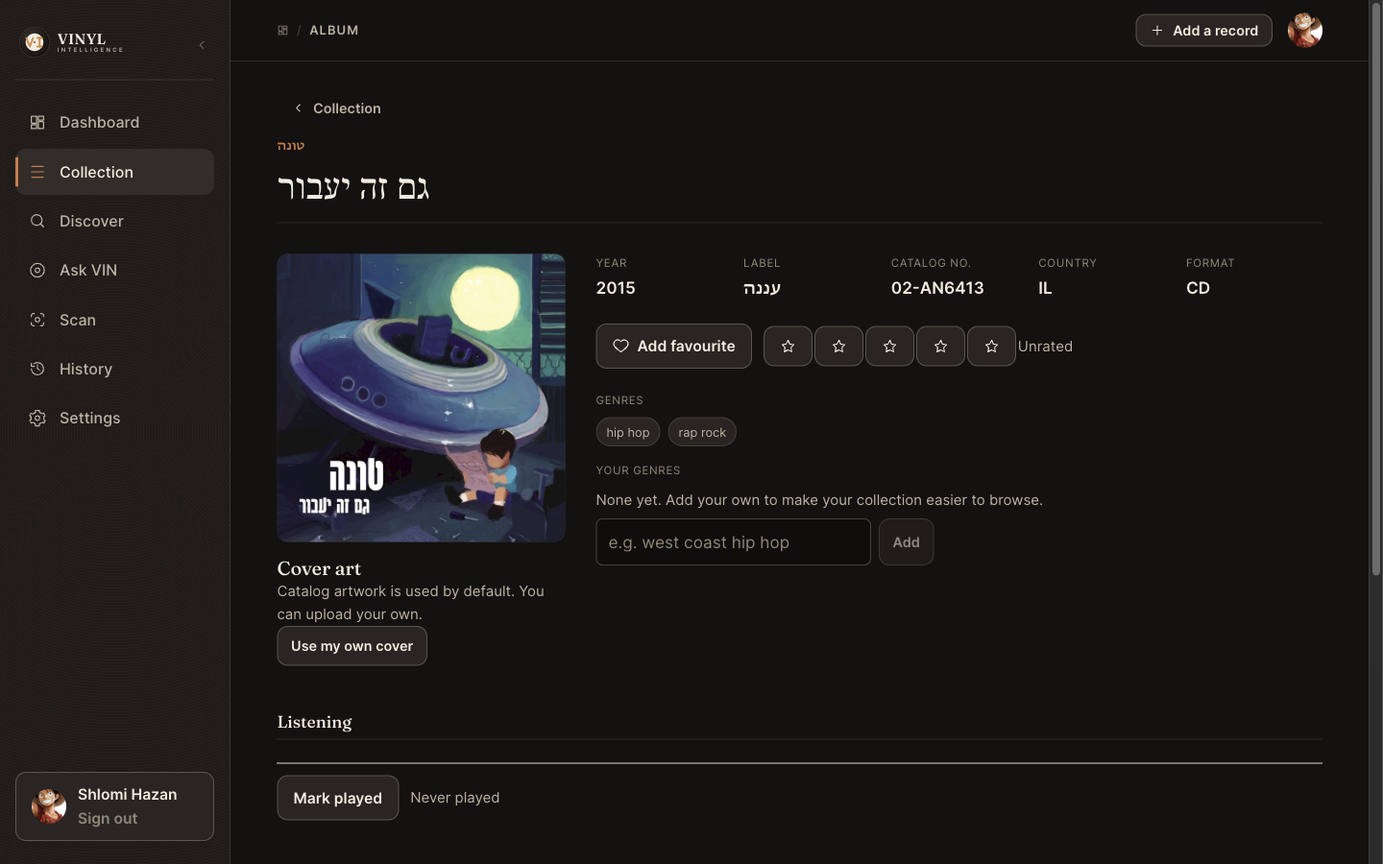
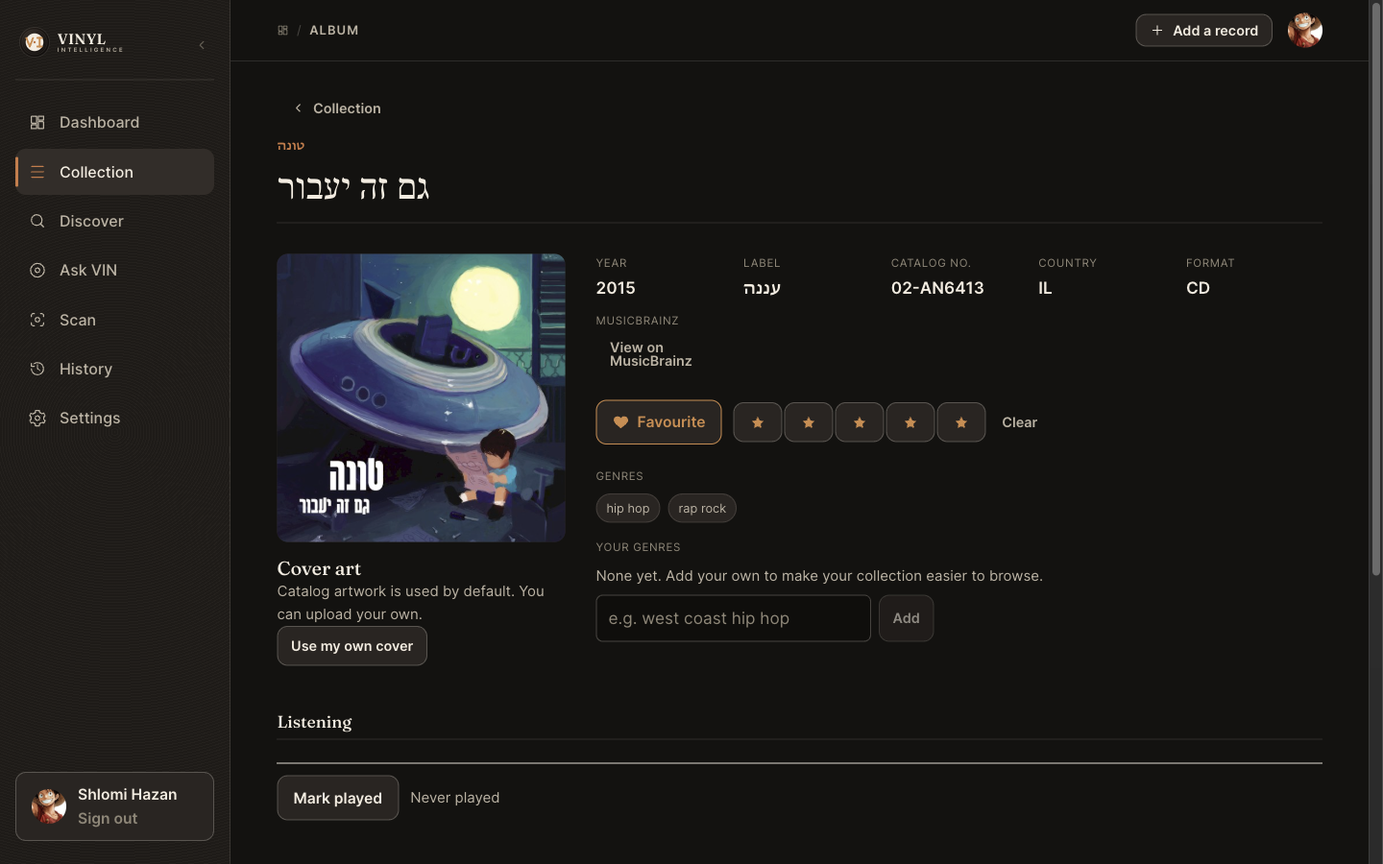
docs: correct PR #37 status/evidence claims and stale Hebrew screenshot
Targeted correction of four findings from independent review, plus a
screenshot-08 staleness check. No runtime/schema/dependency change.

1. Spec 0017 / Plan 017 status headers were still "PLANNING ONLY", stale
   against docs/specs/README.md and the merged/deployed runtime. Updated
   both to the smallest legitimate completion-status statement (runtime
   complete/merged/deployed; PR C documentation closeout in progress; full
   spec section 23 human acceptance not yet complete), preserving every
   "Correction from an earlier draft" note and the rest of each document's
   body exactly as written and approved at planning time.

2. The closeout previously described "8/8 human production acceptance
   PASS" in language that could be read as full Spec 0017 section 23
   acceptance. Built an exact evidence matrix for section 23 items 1-22
   (6 HUMAN-OBSERVED, 1 AUTOMATED BY CONTRACT per the spec's own text, 15
   STILL REQUIRE HUMAN OBSERVATION), mapped only to the 8 observations
   actually reported - no detail assumed beyond what was reported. Added
   the matrix and the consolidated remaining human-only checklist (items
   A-O) to docs/verification.md, and corrected every place that described
   the 8-step smoke as complete section-23/Definition-of-Done evidence
   (docs/specs/0017, docs/plans/017, docs/specs/README.md, the roadmap
   status line/ASCII chronology/subsection, docs/verification.md). Made
[…]

Changed region(s): [[0.4375, 0.3422, 0.75, 0.7467], [0.5625, 0.3733, 0.7812, 0.4356], [0.5625, 0.4667, 0.75, 0.4978]]

diff --git a/docs/verification.md b/docs/verification.md
@@ -5679,9 +5679,19 @@ CSS), `7d65038` (correction — see below).
   migration).
 - `npx supabase db lint`: no errors.
 - `npm audit --omit=dev`: **0 vulnerabilities**.
-- 21 files changed (2,644 insertions / 219 deletions), all within the
-  plan's own "Exact likely files" list — verified by diffing against the
-  PR #35 baseline.
+- 21 files changed (2,644 insertions / 219 deletions) — verified by
+  diffing against the PR #35 baseline. 19 files matched the plan's own
+  "Exact likely files" list exactly. **2 files fell outside that list**
+  (`src/catalog/CatalogPanel.tsx`, `src/pages/ScanPage.tsx`): both call
+  `saveCatalogSearchDraft`, and the additively-widened
+  `CatalogSearchDraft`/`CatalogSearchResult` types (a new required `mode`
+  field) made their existing calls fail to compile; each was fixed with the
+  minimal addition of `mode: 'all'`, with no other line changed in either
+  file and no behavior/scope expansion — `CatalogPanel.tsx` is confirmed
+  unmounted (grep found no importer), and `ScanPage.tsx`'s change sets the
+  exact same `mode: 'all'` default the plan already mandates for Scan
+  compatibility (§"Scan compatibility decision"). Disclosed in PR #36's own
+  "Deviations from Plan 017" section, not discovered after the fact.
 - Zero real MusicBrainz calls anywhere in implementation or automated
   verification (all `searchMusicBrainzReleases`/`lookupReleaseWithRateLimitRetry`
   fixtures mocked, confirmed by grepping the new/changed test files for any
@@ -5726,7 +5736,9 @@ via GitHub. Production deploy `6aaa63fe2829c87037fd2cd0` at
 (`netlify deploy --prod`; Vite production build succeeded, 162 modules
 transformed, six existing Netlify Functions packaged).
 
-**HUMAN-OBSERVED PRODUCTION EVIDENCE — 8/8 PASS, 2026-09-16:**
+**HUMAN-OBSERVED PRODUCTION EVIDENCE — 8-step production smoke, 8/8 PASS,
+2026-09-16** (a deliberately bounded first acceptance pass, not the full
+spec §23 contract — see the evidence matrix immediately below):
 
 1. `/api/health` → `{"status":"ok"}`.
 2. Discover — All mode: a real search returns results.
@@ -5745,20 +5757,97 @@ pre-production did not reproduce in production and is not a current
 product defect; PR #36 was not reopened and no runtime was modified because
 of it.
 
-**The Discover & MusicBrainz Navigation Enhancement is COMPLETE, human
-production-accepted.**
+**This 8-step smoke is a subset of spec 0017 §23's full 22-item human
+production acceptance contract, not a substitute for it.** The runtime is
+implemented, merged, deployed, and independently reviewed; it is **not**
+yet fully human production-accepted per §23, and spec §27's Definition of
+Done is correspondingly **not yet complete**. The matrix below classifies
+every §23 item and lists the exact remaining human-only checks — built
+directly from the 8 reported observations above, with no detail assumed
+beyond what was actually reported.
 
-### Documentation Closeout (this section)
+#### Spec 0017 §23 evidence matrix (items 1–22)
+
+Categories: **HUMAN-OBSERVED** — directly covered by one of the 8 reported
+smoke observations above; **AUTOMATED BY CONTRACT** — §23's own text states
+automated evidence is sufficient for this item; **STILL REQUIRES HUMAN
+OBSERVATION** — not yet covered by any evidence on record.
+
+| # | §23 item (summary) | Classification | Evidence |
+| --- | --- | --- | --- |
+| 1 | All-mode search matches by artist name alone (the corrected behavior), via an artist-only query | STILL REQUIRES HUMAN OBSERVATION | Smoke item 2 reports only "a real search returns results" — no detail confirms the query was artist-name-only rather than a title/combined query. Not assumed. |
+| 2 | Artist mode produces artist-focused results on a deliberately ambiguous query | HUMAN-OBSERVED | Smoke item 3: "the same ambiguous/non-Latin query produces artist-focused results, distinct from All mode." |
+| 3 | Album mode produces title/release-focused results | HUMAN-OBSERVED | Smoke item 5: "album/title-focused search works." |
+| 4 | A Hebrew/non-Latin query remains intact end-to-end in **every** mode | STILL REQUIRES HUMAN OBSERVATION | Smoke item 3 confirms non-Latin text only for **Artist** mode. All mode and Album mode are not confirmed for non-Latin text. |
+| 5 | Initial page renders correctly (5 results, or fewer with no error) | HUMAN-OBSERVED | Reasonably implied by smoke item 2 ("a real search returns results"), which describes the initial page rendering without error. |
+| 6 | "Load more" appends without replacing/losing prior results | HUMAN-OBSERVED | Smoke item 4: "appends further results correctly; prior results remain." |
+| 7 | Rapid repeated "Load more" clicks do not produce parallel/duplicate requests or duplicate candidates | STILL REQUIRES HUMAN OBSERVATION | Not reported. |
+| 8 | Load-More-failure-preserves-prior-results | AUTOMATED BY CONTRACT | §23 item 8 explicitly states this is proven by the automated tests in §22, not human acceptance. |
+| 9 | Result exhaustion (partial page, or the 20-result window) correctly removes/disables "Load more" | STILL REQUIRES HUMAN OBSERVATION | Not reported. |
+| 10 | A real, valid MusicBrainz release URL resolves to the exact expected release | HUMAN-OBSERVED | Smoke item 6: "resolves to exactly one release candidate," consistent with the pasted URL's own release. |
+| 11 | An invalid release-group/artist/wrong-domain URL fails locally, zero network request | STILL REQUIRES HUMAN OBSERVATION | Not reported. |
+| 12 | The exact lookup itself makes no database write (collection count unchanged before an explicit Add) | STILL REQUIRES HUMAN OBSERVATION | Smoke items 6 and 7 are reported as separate observations; no before/after collection-count comparison isolating the lookup step from the Add step was reported. |
+| 13 | An already-owned exact-lookup result shows the duplicate-copy affordance and exact approved dialog copy | STILL REQUIRES HUMAN OBSERVATION | Not reported; item 6's tested URL was not reported as already-owned. |
+| 14 | Cancel on that dialog writes nothing (collection count unchanged) | STILL REQUIRES HUMAN OBSERVATION | Not reported. |
+| 15 | "Search on MusicBrainz" opens the correct external destination in a new tab | STILL REQUIRES HUMAN OBSERVATION | Not reported. |
+| 16 | Existing per-candidate MusicBrainz links still work exactly as before | STILL REQUIRES HUMAN OBSERVATION | Not reported (viewing results is not the same as confirming the per-candidate link itself was opened). |
+| 17 | A MusicBrainz-backed Record Detail page shows "View on MusicBrainz" | HUMAN-OBSERVED | Smoke item 8: "a MusicBrainz-backed record displays 'View on MusicBrainz'." |
+| 18 | That link opens the **exact release** page, not the release-group page | STILL REQUIRES HUMAN OBSERVATION | Smoke item 8 confirms the link is **displayed**; it does not report the link having been opened/verified as the exact-release (not release-group) destination. |
+| 19 | A manually-created record's Record Detail shows **no** MusicBrainz link | STILL REQUIRES HUMAN OBSERVATION | Not reported. |
+| 20 | Mobile Discover (modes, Load More, exact-URL input) has no horizontal overflow and remains usable | STILL REQUIRES HUMAN OBSERVATION | Not reported; all 8 smoke items describe desktop use. |
+| 21 | Existing manual-add path still works, unchanged | STILL REQUIRES HUMAN OBSERVATION | Smoke item 7 ("Add to collection: works successfully") describes a catalog-add from a live search/lookup result, not the separate manual-entry path. |
+| 22 | Existing Scan flow (recognition → candidates → confirm, including duplicate-copy) remains fully intact | STILL REQUIRES HUMAN OBSERVATION | Not reported; none of the 8 smoke items touch Scan. Note: §23's own preamble caps this acceptance round at **zero** OpenRouter/Vision/curator calls, so Scan's *vision recognition* step specifically cannot be exercised within that budget — a full item-22 check needs either a human-authorized real Vision call (a separate, explicit budget decision) or a scoped check of Scan's deterministic catalog-search/confirm/duplicate-copy steps only, which share code paths already covered by items 2–3, 10–14 above. Flagged for the human to decide, not resolved unilaterally here. |
+
+**Tally: 6 HUMAN-OBSERVED, 1 AUTOMATED BY CONTRACT, 15 STILL REQUIRE HUMAN
+OBSERVATION.**
+
+#### Remaining human-only acceptance checklist
+
+The 15 items above, consolidated into actionable checks (no new provider
+call was made to produce this list; it is derived entirely from the spec
+text and the 8 already-reported observations):
+
+- **A.** All-mode search using an **artist-name-only** query (no title words) — confirm it now returns that artist's releases (item 1).
+- **B.** A Hebrew/non-Latin query in **All** mode and in **Album** mode — confirm the script is preserved intact in each (item 4; Artist mode already observed).
+- **C.** Rapid repeated "Load more" clicks — confirm no duplicate requests/candidates (item 7).
+- **D.** Result exhaustion (a narrow query with under 5 results, or reaching the 20-result window) — confirm "Load more" correctly disappears (item 9).
+- **E.** Paste an **invalid** MusicBrainz URL (wrong domain, wrong entity type, or malformed ID) — confirm local rejection with zero network request (item 11).
+- **F.** Paste a valid, **not-yet-owned** exact-release URL, confirm the collection count **before** clicking Add, then confirm it is unchanged after the lookup and increments by exactly one only after an explicit Add (items 12, and corroborates 7).
+- **G.** Paste an **already-owned** release's exact URL — confirm the duplicate-copy affordance and exact approved dialog copy appear (item 13).
+- **H.** Cancel that dialog — confirm the collection count is unchanged (item 14).
+- **I.** Click "Search on MusicBrainz" — confirm it opens the correct external MusicBrainz search page in a new tab (item 15).
+- **J.** Click an existing per-candidate "MusicBrainz" link on a search result — confirm it still opens that exact release's page (item 16).
+- **K.** Click the new "View on MusicBrainz" link on Record Detail — confirm it opens the **exact release** page, not a release-group page (item 18).
+- **L.** Open a manually-created record's Record Detail — confirm **no** MusicBrainz link appears (item 19).
+- **M.** Mobile viewport: Discover (modes, Load More, exact-URL input) — confirm no horizontal overflow and full usability (item 20).
+- **N.** The manual-add path (Add record → fill fields → save) — confirm it still works unchanged (item 21).
+- **O.** Scan flow — confirm candidates/confirm/duplicate-copy remain correct; **the human should decide** whether to authorize one real Vision call to exercise the full recognition step, or accept the deterministic-parts check described above as sufficient for item 22 given the acceptance round's zero-Vision-call cap.
+
+Until these are completed and recorded, **do not** describe the Discover &
+MusicBrainz Navigation Enhancement as fully human production-accepted, and
+**do not** mark spec §27's Definition of Done complete for this
+enhancement. The runtime itself (implementation, independent review, merge,
+deployment) is complete; only the §23 human-acceptance step and the §24/§25
+documentation closeout (in progress as PR #37) remain.
+
+### Documentation Closeout (PR C, PR #37 — in progress)
 
 Documentation-only closeout represented by the current repository/Git
 history: README (Discover feature description, screenshots), root `SPEC.md`
 (§13, §33, §40), `docs/USER_GUIDE.md` (§7, §10), `docs/api-integrations.md`
 (MusicBrainz row), this roadmap's "Discover & MusicBrainz Navigation
-Enhancement" subsection, the spec index, `docs/INSPECT.md`, and this
-verification-evidence section. Screenshots refreshed: Discover initial
-state and results (now showing the mode selector), a new exact-release-URL
-lookup screenshot, and Record Detail (now showing "View on MusicBrainz").
-No runtime, test, schema, or configuration file changed; the accepted
-production runtime remains the PR #36 merge above
-(`abff1e86cbc36c754e8645179fa5bbee9ec27afe`, deploy
-`6aaa63fe2829c87037fd2cd0`).
+Enhancement" subsection, the spec/plan status headers (0017/017), the spec
+index, `docs/INSPECT.md`, and this verification-evidence section (including
+the §23 evidence matrix and remaining human-only checklist above).
+Screenshots refreshed: Discover initial state and results (now showing the
+mode selector), a new exact-release-URL lookup screenshot, Record Detail
+(now showing "View on MusicBrainz"), and the Hebrew record detail
+screenshot (also catalog-backed, confirmed via existing production state —
+no new MusicBrainz/model call — and now visibly stale without the new link;
+refreshed for the same reason). No runtime, test, schema, or configuration
+file changed; the accepted production runtime remains the PR #36 merge
+above (`abff1e86cbc36c754e8645179fa5bbee9ec27afe`, deploy
+`6aaa63fe2829c87037fd2cd0`). **This closeout documents the runtime's current
+state honestly, including that full spec §23 human acceptance is not yet
+complete** — it does not claim a completion this PR's own scope cannot
+prove.

diff --git a/docs/roadmaps/2026-09-02-complete-project-roadmap.md b/docs/roadmaps/2026-09-02-complete-project-roadmap.md
@@ -8,7 +8,7 @@
 **Supersedes:** `docs/roadmaps/2026-08-18-complete-project-roadmap.md` — preserved unchanged as the historical snapshot
 **Scope:** Full project plan from foundation through production-ready final polish, updated to record the project's actual evolution after Milestone 10, including three post-M12 evolutions (Hebrew & Multilingual Record Support; Final Submission Alignment; Discover & MusicBrainz Navigation Enhancement)
 
-**Project status (2026-09-16): M0–M12 COMPLETE (2026-09-07) — Hebrew & Multilingual Record Support COMPLETE — Final Submission Alignment Findings A and B CLOSED, Findings C–H reconciled (PR D) — Discover & MusicBrainz Navigation Enhancement COMPLETE, human-accepted in production.** Accepted production runtime is live at `https://vinyl-intelligence.netlify.app`, from merged `main` `abff1e86cbc36c754e8645179fa5bbee9ec27afe` (Netlify deploy `6aaa63fe2829c87037fd2cd0`). Human production acceptance passed 2026-09-16 (8/8 checks). See "Post-M12 evolution" below for the full chronology; the pre-enhancement accepted state (2026-09-15, `main` `81812c1f52d56bea84e142d828dd1e1427a0ec4b`, deploy `6aa8783d1835a5e433449dd4`) and M0–M12's own accepted state (2026-09-07, `main` `c2037b8`, deploy `6a9eaf39`) are preserved as history below and in section 22, and are no longer the current accepted runtime.
+**Project status (2026-09-16): M0–M12 COMPLETE (2026-09-07) — Hebrew & Multilingual Record Support COMPLETE — Final Submission Alignment Findings A and B CLOSED, Findings C–H reconciled (PR D) — Discover & MusicBrainz Navigation Enhancement runtime COMPLETE, merged, deployed; documentation closeout (PR C) in progress; full spec §23 human acceptance not yet complete.** Accepted production runtime is live at `https://vinyl-intelligence.netlify.app`, from merged `main` `abff1e86cbc36c754e8645179fa5bbee9ec27afe` (Netlify deploy `6aaa63fe2829c87037fd2cd0`). An 8-step human production smoke test passed 2026-09-16 — this is a subset of, not a substitute for, spec 0017 §23's full 22-item human acceptance contract; see `docs/verification.md` → "Discover & MusicBrainz Navigation Enhancement Evidence" for the exact evidence matrix and the remaining human-only checks. See "Post-M12 evolution" below for the full chronology; the pre-enhancement accepted state (2026-09-15, `main` `81812c1f52d56bea84e142d828dd1e1427a0ec4b`, deploy `6aa8783d1835a5e433449dd4`) and M0–M12's own accepted state (2026-09-07, `main` `c2037b8`, deploy `6a9eaf39`) are preserved as history below and in section 22, and are no longer the current accepted runtime.
 
 ---
 
@@ -50,8 +50,10 @@ original 2026-08-18 roadmap
      PR #35 plan; PR #36 runtime - one independent-review correction round,
      2 MEDIUM findings fixed, folded into the same PR before merge)
   -> accepted production runtime built from main abff1e86, deploy 6aaa63fe
-     (2026-09-16), human production acceptance 8/8 PASS - this documentation
-     closeout (PR E) does not change this deployed runtime
+     (2026-09-16), 8-step human production smoke PASS (a subset of spec
+     0017 section 23's full 22-item acceptance contract, not yet complete) -
+     this documentation closeout (PR C) does not change this deployed
+     runtime
 ```
 
 ---
@@ -165,8 +167,14 @@ schema/dependency change. Full detail in
   same PR (a shared `invalidatePendingWork()` guard-release helper; a
   `Symbol`-sentinel-based `parseOptionalMode`/`Offset`/`HasMore` redesign),
   with named regression tests for each; final review **0 BLOCKER / 0 HIGH /
-  0 MEDIUM**. 21 files changed (2,644 insertions / 219 deletions), all
-  within the plan's own file list. Full test suite: **72 files / 983
+  0 MEDIUM**. 21 files changed (2,644 insertions / 219 deletions): 19
+  followed the plan's own file list exactly, and 2
+  (`src/catalog/CatalogPanel.tsx`, `src/pages/ScanPage.tsx`) needed a
+  minimal, disclosed, type-compliance-only fix (`mode: 'all'` added to
+  satisfy the additively-widened `CatalogSearchDraft`/`CatalogSearchResult`
+  types) outside the plan's original file list — no behavior/scope
+  expansion resulted; recorded as a Plan 017 deviation in PR #36's own PR
+  body and in `docs/verification.md`. Full test suite: **72 files / 983
   tests**, all passing; typecheck/lint/build clean; pgTAP 507/507; db lint
   clean; `npm audit --omit=dev` 0 vulnerabilities. Zero real MusicBrainz
   calls anywhere in implementation or automated verification.
@@ -179,19 +187,25 @@ schema/dependency change. Full detail in
 (`netlify deploy --prod`, 162 modules transformed, six existing Netlify
 Functions packaged).
 
-**Human production acceptance — 8/8 PASS, 2026-09-16:** `/api/health`;
-Discover All-mode search; Artist-mode search on the same ambiguous query
-returning artist-focused results; Load More appending further results
-without losing prior ones; Album-mode search; an exact MusicBrainz release
-URL resolving to exactly one candidate; adding a record to the collection
-from a live result; Record Detail showing "View on MusicBrainz" for a
-MusicBrainz-backed record. A transient Draft Deploy catalog-add
-configuration error observed pre-production did not reproduce in
-production and is not a current product defect.
+**Human production acceptance — 8-step production smoke, 8/8 PASS,
+2026-09-16:** `/api/health`; Discover All-mode search; Artist-mode search on
+the same ambiguous query returning artist-focused results; Load More
+appending further results without losing prior ones; Album-mode search; an
+exact MusicBrainz release URL resolving to exactly one candidate; adding a
+record to the collection from a live result; Record Detail showing "View on
+MusicBrainz" for a MusicBrainz-backed record. A transient Draft Deploy
+catalog-add configuration error observed pre-production did not reproduce
+in production and is not a current product defect. **This 8-step smoke is a
+representative subset of, not a substitute for, spec 0017 §23's full
+22-item human production acceptance contract** — see `docs/verification.md`
+→ "Discover & MusicBrainz Navigation Enhancement Evidence" for the exact
+item-by-item evidence matrix and the remaining human-only checklist. Full
+§23 acceptance, and therefore spec §27's Definition of Done, is **not yet
+complete**.
 
-**Documentation closeout:** this section, plus README/SPEC/User
+**Documentation closeout (PR C):** this section, plus README/SPEC/User
 Guide/Visual Inspect/API Integrations updates and refreshed Discover/Record
-Detail screenshots, represented in current repository/Git history (PR E).
+Detail screenshots, represented in current repository/Git history (PR #37).
 It changes no runtime, test, schema, or configuration file; the accepted
 production runtime remains the PR #36 merge above.
 

diff --git a/docs/specs/README.md b/docs/specs/README.md
@@ -34,4 +34,4 @@ Existing specs/spikes:
 - [0014 Milestone 12 Final Hardening](0014-milestone-12-final-hardening.md) - **COMPLETE** - implemented, human-accepted, in production. Verification + documentation-reconciliation pass; human production acceptance (2026-09-07) surfaced two real runtime defects, each fixed on its own reviewed PR (PR #19, PR #20), merged, deployed, and re-verified. Final accepted `main` `c2037b8a09b10da796fa2435f268f316f7bb8442`. Plan: `docs/plans/014-milestone-12-final-hardening.md`.
 - [0015 Hebrew & Multilingual Record Support](0015-hebrew-multilingual-record-support.md) - **COMPLETE**, human-accepted in production. Post-M12 enhancement: local BiDi handling, Hebrew-aware search/sort, canonical Hebrew/English genre taxonomy shared by Collection/Dashboard/VIN, Vision original-script preservation, Hebrew-readable small-card typography. Implemented across PR #23, #24, #25, #26, #27; final accepted `main` `59fe823646091b6189fc1a015c7209fbe1f8105b`. Plan: `docs/plans/015-hebrew-multilingual-record-support.md`. Decision: `docs/decisions/0007-hebrew-multilingual-record-support.md`.
 - [0016 Final Submission Alignment](0016-final-submission-alignment.md) - PR A (planning, PR #29) merged; **Finding A merged, deployed, and human-accepted** (PR #30, `main` `2430230af12e89b61ac9a54da81ef31e1ad59ad3`, deploy `6aa86ad76bc83b77bc42c651`, acceptance PASS 2026-09-15); **Finding B merged, deployed, and human-accepted** (PR #31, `main` `81812c1f52d56bea84e142d828dd1e1427a0ec4b`, deploy `6aa8783d1835a5e433449dd4`, acceptance PASS 2026-09-15); Findings C-H (documentation reconciliation) are addressed by the PR D documentation-only change represented in current repository/Git history. Narrowly-scoped post-completion remediation triggered by an independent final audit; not a new milestone. Plan: `docs/plans/016-final-submission-alignment.md`.
-- [0017 Discover & MusicBrainz Navigation Enhancement](0017-discover-musicbrainz-navigation-enhancement.md) - **COMPLETE**, human-accepted in production. A deliberate, human-requested post-freeze usability enhancement (explicit search modes, bounded pagination, an exact MusicBrainz-release-URL lookup, outbound MusicBrainz navigation, and a Record Detail provenance link), discovered during real hands-on final-submission product use - not a new milestone, not an AI feature, no schema/dependency change. Implemented and independently corrected in PR #36 (2 MEDIUM findings fixed); final accepted `main` `abff1e86cbc36c754e8645179fa5bbee9ec27afe`, deploy `6aaa63fe2829c87037fd2cd0`; human production acceptance 8/8 PASS, 2026-09-16. Plan: `docs/plans/017-discover-musicbrainz-navigation-enhancement.md` (PR #35).
+- [0017 Discover & MusicBrainz Navigation Enhancement](0017-discover-musicbrainz-navigation-enhancement.md) - **RUNTIME COMPLETE, MERGED, DEPLOYED; full §23 human acceptance not yet complete.** A deliberate, human-requested post-freeze usability enhancement (explicit search modes, bounded pagination, an exact MusicBrainz-release-URL lookup, outbound MusicBrainz navigation, and a Record Detail provenance link), discovered during real hands-on final-submission product use - not a new milestone, not an AI feature, no schema/dependency change. Implemented and independently corrected in PR #36 (2 MEDIUM findings fixed); final `main` `abff1e86cbc36c754e8645179fa5bbee9ec27afe`, deploy `6aaa63fe2829c87037fd2cd0`; an 8-step human production smoke passed 2026-09-16, but spec §23's full 22-item human acceptance contract is not yet complete - see `docs/verification.md` → "Discover & MusicBrainz Navigation Enhancement Evidence" for the exact evidence matrix and remaining checklist. Plan: `docs/plans/017-discover-musicbrainz-navigation-enhancement.md` (PR #35). Documentation closeout (PR C): PR #37, open.

diff --git a/docs/specs/0017-discover-musicbrainz-navigation-enhancement.md b/docs/specs/0017-discover-musicbrainz-navigation-enhancement.md
@@ -1,11 +1,21 @@
 # 0017 Discover & MusicBrainz Navigation Enhancement (Specification)
 
-Status: **PLANNING ONLY — implementation not started.** No runtime, test, schema,
-dependency, or migration change has been made. This document is the primary
-specification; a companion implementation plan (`docs/plans/017-...`) is
-expected before implementation begins, following the same human-approval
-discipline as every prior milestone/enhancement (`AGENTS.md` "Development
-Workflow").
+Status: **RUNTIME COMPLETE, MERGED, DEPLOYED — documentation closeout (PR C)
+in progress; full §23 human acceptance not yet complete.** PR A (this spec,
+PR #34; the companion plan, PR #35) is merged. PR B (runtime implementation
++ one independent-review correction round — 0 BLOCKER / 0 HIGH / 2 MEDIUM
+found and fixed in the same PR before merge, PR #36) is implemented, merged
+(`abff1e86cbc36c754e8645179fa5bbee9ec27afe`), and deployed
+(`6aaa63fe2829c87037fd2cd0`). The human has performed an 8-step production
+smoke test (PASS, 2026-09-16) covering a representative subset of this
+section's own §23 acceptance items — see `docs/verification.md` → "Discover
+& MusicBrainz Navigation Enhancement Evidence" for the exact mapping. **§23's
+full 22-item human production acceptance is not yet complete**; the same
+verification section tracks the remaining human-only checks. No schema,
+dependency, or migration change was made by this enhancement. This
+document's body below, including every "Correction from an earlier draft"
+note, is preserved exactly as written and approved at planning time — it is
+not rewritten to describe the implementation retroactively.
 
 Baseline `main` when this spec was written: `cc8570a9d5c0a3e587b8ebb3facc1233f397a576`
 (PR #33 — final presentation documentation, merged). Accepted production

diff --git a/docs/plans/017-discover-musicbrainz-navigation-enhancement.md b/docs/plans/017-discover-musicbrainz-navigation-enhancement.md
@@ -1,6 +1,22 @@
 # 017 Discover & MusicBrainz Navigation Enhancement (Implementation Plan)
 
-Status: **PLANNING ONLY — implementation not started.**
+Status: **RUNTIME COMPLETE, MERGED, DEPLOYED — PR C (this document's own
+documentation closeout, PR #37) in progress.** PR A (this plan, PR #35; the
+spec, PR #34) is merged. PR B (runtime implementation, PR #36) is complete:
+implemented, independently reviewed (one correction round — 0 BLOCKER /
+0 HIGH / 2 MEDIUM found and fixed in the same PR before merge — see
+`docs/verification.md` → "Discover & MusicBrainz Navigation Enhancement
+Evidence" for the full chronology), merged
+(`abff1e86cbc36c754e8645179fa5bbee9ec27afe`), and deployed
+(`6aaa63fe2829c87037fd2cd0`). An 8-step human production smoke passed
+2026-09-16; full spec §23 human acceptance (22 items) is tracked as **not
+yet complete** in the same verification section. The original PR A/B/C
+operational plan below is preserved unchanged as the plan that was
+executed; two minimal files outside its original file list
+(`src/catalog/CatalogPanel.tsx`, `src/pages/ScanPage.tsx`) needed a
+type-compliance-only fix during PR B — disclosed in PR #36's own
+"Deviations from Plan 017" section and in `docs/verification.md`, not
+retroactively folded into this plan's file list below.
 
 Spec: `docs/specs/0017-discover-musicbrainz-navigation-enhancement.md` (the
 primary behavioral contract; this plan does not restate its rationale, only
